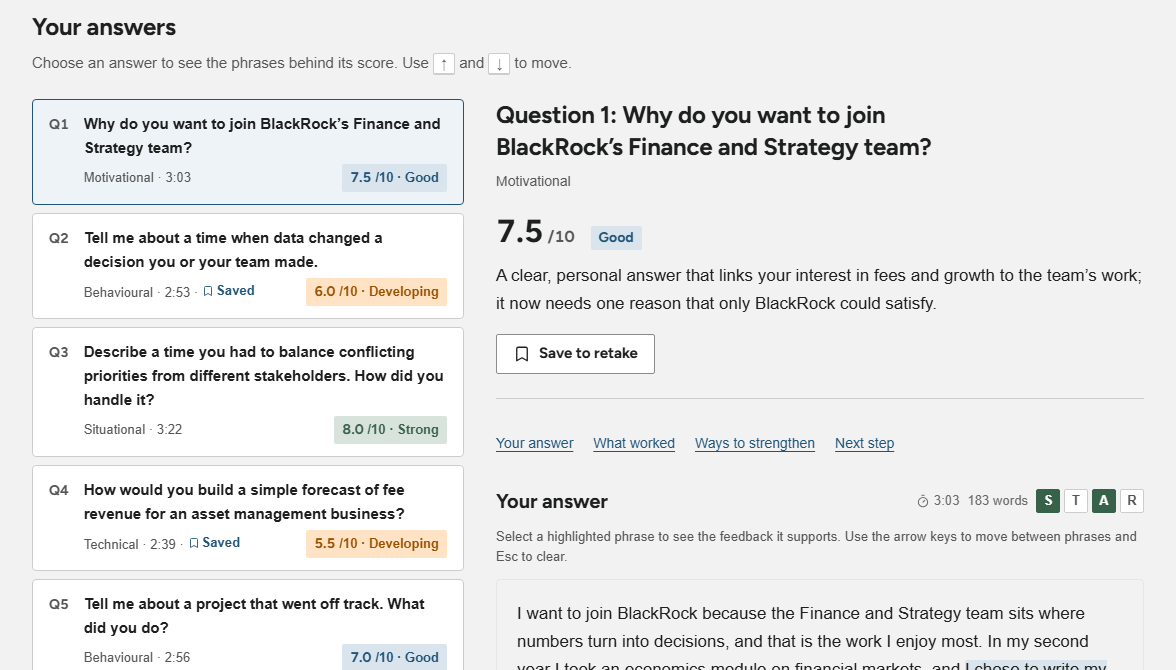
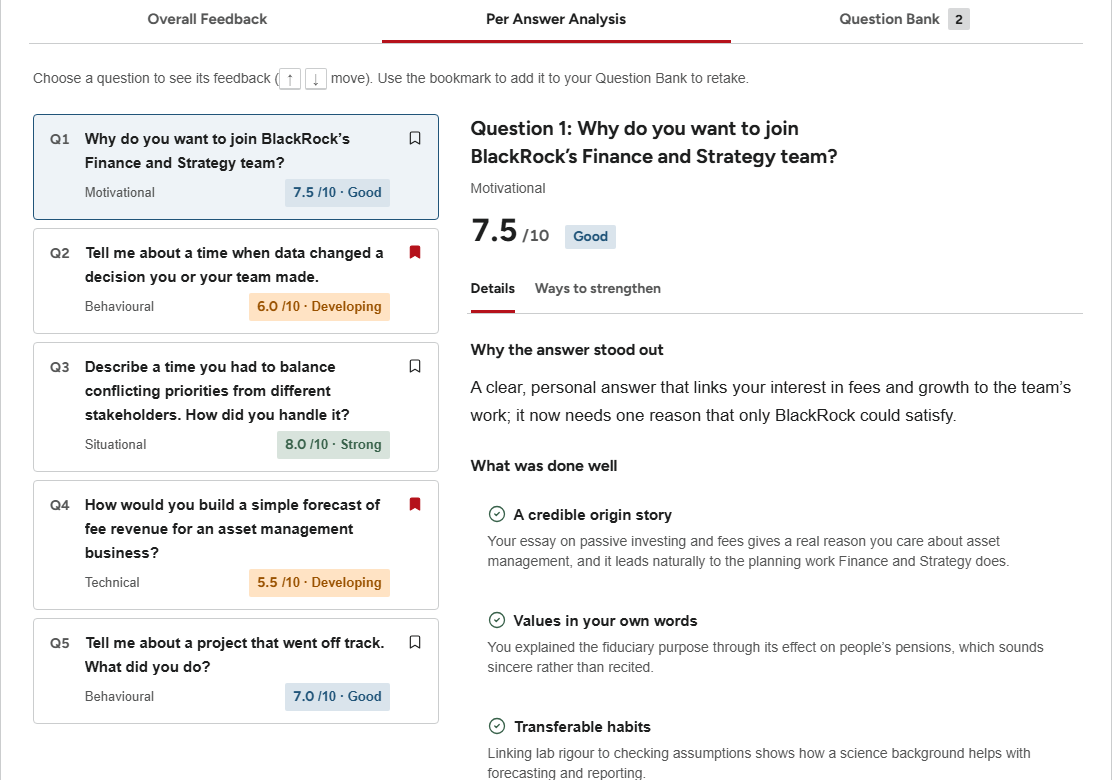
LUCA: re-shoot the rebuild crops after the reference match
The prototype's interview screens were brought back to the original
exports and given an unslop polish, so the three rebuild crops showed
screens that no longer exist. Re-cropped from the new captures, with
aspect ratios, alt text and decision bullets matched to what each crop
shows. The verification copy no longer cites the 400px Home change,
which the reference match reverted. Lint and build pass.

diff --git a/app/work/luca/page.jsx b/app/work/luca/page.jsx
@@ -686,15 +686,15 @@ export default function LucaPage() {
               points={[
                 'Where v1 used red, amber and green, the prototype shows a figure and a band word: “68 /100 · Good”.',
                 'Red never appears on a score, so a weak answer reads as something to work on.',
-                'Competency bars carry labelled band marks, so the number has context.',
+                'Competency bars stay neutral, and only the biggest gap takes the accent, so the next thing to work on stands out.',
               ]}
               why="Students either over-trusted the AI or dismissed it. A score has to inform without passing judgement."
               imgSide="left"
               media={
                 <BrowserShot
                   src="/assets/luca/prototype-report.png"
-                  alt="Prototype interview report: an overall score of 68 out of 100 marked Good, up 4 since the last interview, beside five competency bars with labelled band marks"
-                  aspect="1176/640"
+                  alt="Prototype interview feedback, Overall Feedback tab: a 68 out of 100 Good score, up 4 since interview 2, beside an interview summary listing strengths and areas for improvement with links to each question"
+                  aspect="1112/900"
                 />
               }
             />
@@ -710,8 +710,8 @@ export default function LucaPage() {
               media={
                 <BrowserShot
                   src="/assets/luca/prototype-answers.png"
-                  alt="Prototype answers view: five questions with their scores and saved markers, and the first answer’s 7.5 Good verdict with a Save to retake action"
-                  aspect="1176/670"
+                  alt="Prototype Per Answer Analysis tab: five questions with their scores and bookmarks, and the first answer’s 7.5 Good verdict with Details and Ways to strengthen tabs"
+                  aspect="1112/780"
                 />
               }
             />
@@ -719,15 +719,15 @@ export default function LucaPage() {
               label="Nothing lost mid-interview"
               points={[
                 'Drafts save as students type, and leaving a live interview always asks first.',
-                'STAR coverage and the word count update beside the answer, and Submit stays in view.',
+                'Students can skip a question or save and exit at any point, and pick up where they left off.',
               ]}
               why="Practice only works if it feels safe to try."
               imgSide="left"
               media={
                 <BrowserShot
                   src="/assets/luca/prototype-live.png"
-                  alt="Prototype live interview in Training mode: question 3 of 5 with a progress bar and timer, the student’s answer, a STAR coverage panel showing two of four parts covered, and the Submit answer button"
-                  aspect="1176/800"
+                  alt="Prototype live interview in Training mode: question 3 of 5 on the left with a hint and read-aloud control, the student’s typed answer on the right with a 119-word count, and Skip question, Save and exit interview and Submit and next buttons"
+                  aspect="1144/600"
                 />
               }
             />
@@ -737,14 +737,15 @@ export default function LucaPage() {
         {/* 11c. Verification — real numbers from the prototype's own checks, not usage. */}
         <Section title="The prototype is verified end to end, not just screenshotted" tone="sunken">
           <MetricGrid>
-            <MetricCard value="51" label="Routes checked at desktop and tablet widths, with 0 errors" />
+            <MetricCard value="0" label="Errors across every screen at desktop and tablet widths" />
             <MetricCard value="19/19" label="Contrast pairs passing WCAG AA in light and dark" />
             <MetricCard value="6.0 → 7.5" label="The weakest answer’s score after a retake" />
           </MetricGrid>
           <Prose>
-            A final review found the same fact repeated two or three times on a screen. We kept
-            the section spacing and removed the duplicate lines instead, which lifted returning
-            students&apos; applications about 400px on Home.
+            Several review rounds tightened the screens, then I brought them back to the original
+            exports, keeping the team&apos;s approved layouts and changing only what was genuinely
+            broken: unreadable text, placeholder copy, contradictory numbers and a live interview
+            with no way out.
           </Prose>
         </Section>
 

diff --git a/BACKLOG.md b/BACKLOG.md
@@ -27,14 +27,15 @@ dates visible in the screen captures (designed in 2025).
 (all 14 routes prerender). `next lint` reported the files as ignored, so lint is
 effectively unrun; 375/768/1280 still not eyeballed.
 
-**LUCA 2026 rebuild sections, 2026-11-02 — needs a build check.** Added two
-sections to `app/work/luca/page.jsx` after the results (coded-prototype rebuild:
-3 `DecisionRow`s + a `MetricGrid`) and two learnings, with crops
-`public/assets/luca/prototype-{report,answers,live}.png`. Written on a machine
-with no Node, so **`npm run lint` and `npm run build` have not run** — run both
-and eyeball 375/768/1280 before pushing. New copy comes from the updated FOLIO
-file (`E:\Portfolio 2026\…\assets\LUCA\LUCA-case-study.md`); Nandini to approve
-the wording. Decision count is now 7 (4 + 3), one over the ~6 guideline.
+**LUCA 2026 rebuild sections, 2026-11-23.** Two sections in
+`app/work/luca/page.jsx` after the results (coded-prototype rebuild: 3
+`DecisionRow`s + a `MetricGrid`) and two learnings. Crops
+`public/assets/luca/prototype-{report,answers,live}.png` re-shot after the
+prototype was re-matched to the original exports and given an unslop polish;
+captions, aspect ratios and bullets updated to what the crops show. `npm run
+lint` and `npm run build` pass. Still open: eyeball 375/768/1280 in a browser,
+and Nandini to approve the new wording. Decision count is 7 (4 + 3), one over
+the ~6 guideline.
 
 **Design audit for Digital Product Design roles, 2026-08-05.** Working the fix
 list below one item at a time. Done so far: title → "Product Designer"
